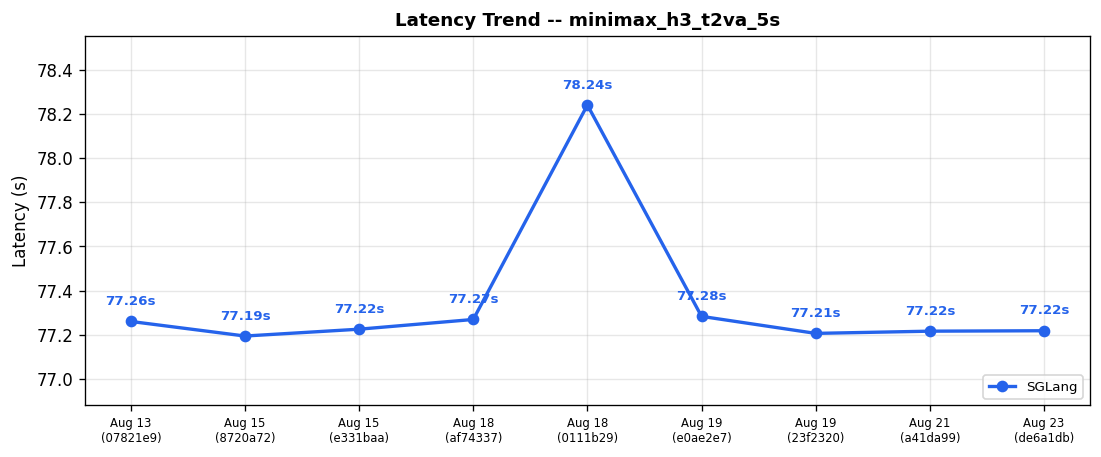
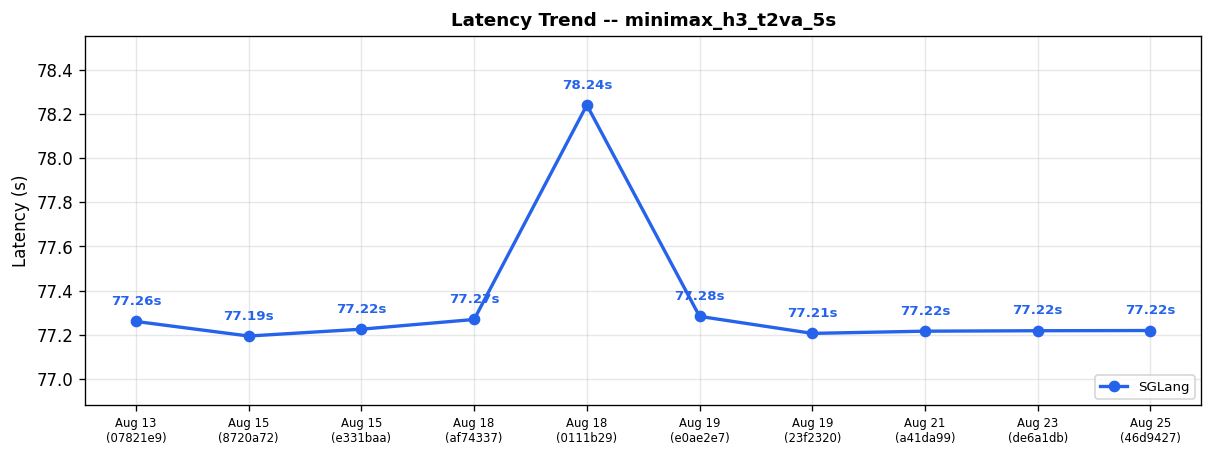
Diffusion comparison results for run 32858458603 (#760)

diff --git a/diffusion-comparisons/dashboard.md b/diffusion-comparisons/dashboard.md
@@ -1,22 +1,22 @@
 # SGLang-Diffusion Nightly Performance Dashboard
 
-*Generated: Aug 23 | Commit: `de6a1db`*
+*Generated: Aug 25 | Commit: `46d9427`*
 
 ## SGLang-Diffusion Performance
 
 | Model | Risk | sglang (s) |
 |-------|------|---------|
-| FLUX.1-dev | ✅ | **4.61** |
-| FLUX.2-dev | ✅ | **13.47** |
-| Qwen-Image-2512 | ✅ | **8.90** |
-| Qwen-Image-Edit-2511 | ✅ | **15.54** |
-| Z-Image-Turbo | ⚠ | **0.94** |
-| Wan2.2-T2V-A14B-Diffusers | ✅ | **206.72** |
-| Wan2.2-TI2V-5B-Diffusers | ✅ | **56.17** |
-| LTX-2.3 | ✅ | **13.06** |
-| ideogram-4-fp8 | ✅ | **4.17** |
-| Cosmos3-Super | ✅ | **119.35** |
-| Wan2.2-I2V-A14B-Diffusers | ✅ | **200.69** |
+| FLUX.1-dev | ✅ | **4.62** |
+| FLUX.2-dev | ✅ | **13.60** |
+| Qwen-Image-2512 | ✅ | **8.98** |
+| Qwen-Image-Edit-2511 | ✅ | **15.39** |
+| Z-Image-Turbo | ✅ | **0.94** |
+| Wan2.2-T2V-A14B-Diffusers | ✅ | **207.74** |
+| Wan2.2-TI2V-5B-Diffusers | ✅ | **56.19** |
+| LTX-2.3 | ✅ | **14.07** |
+| ideogram-4-fp8 | ✅ | **4.13** |
+| Cosmos3-Super | ✅ | **120.39** |
+| Wan2.2-I2V-A14B-Diffusers | ✅ | **201.67** |
 | MiniMax-H3 | ✅ | **77.22** |
 
 ### Latency Trend: flux1_dev_t2i_1024
@@ -83,8 +83,9 @@
 
 | Date | Commit | flux1_dev_t2i_1024 (s) | flux2_dev_t2i_1024 (s) | qwen_image_2512_t2i_1024 (s) | qwen_image_edit_2511 (s) | zimage_turbo_t2i_1024 (s) | wan22_t2v_a14b_720p (s) | wan22_ti2v_5b_720p (s) | ltx2.3_twostage_ti2v_2gpus (s) | ideogram4_fp8_t2i_2gpu (s) | cosmos3_super_t2v_2gpu (s) | wan22_i2v_a14b_720p (s) | minimax_h3_t2va_5s (s) | Trend |
 |------|--------|---------|---------|---------|---------|---------|---------|---------|---------|---------|---------|---------|---------|-------|
-| Aug 23 | `de6a1db` | 4.61 | 13.47 | 8.90 | 15.54 | 0.94 | 206.72 | 56.17 | 13.06 | 4.17 | 119.35 | 200.69 | 77.22 |            |
+| Aug 25 | `46d9427` | 4.62 | 13.60 | 8.98 | 15.39 | 0.94 | 207.74 | 56.19 | 14.07 | 4.13 | 120.39 | 201.67 | 77.22 |            |
 |  | `?` | N/A | N/A | N/A | N/A | N/A | N/A | N/A | N/A | N/A | N/A | N/A | N/A |            |
+| Aug 23 | `de6a1db` | 4.61 | 13.47 | 8.90 | 15.54 | 0.94 | 206.72 | 56.17 | 13.06 | 4.17 | 119.35 | 200.69 | 77.22 | :left_right_arrow:  :left_right_arrow:  :arrow_down:  :arrow_down:  :left_right_arrow:  :left_right_arrow:  :left_right_arrow:  :arrow_down:  :left_right_arrow:  :left_right_arrow:  :left_right_arrow:  :left_right_arrow: |
 | Aug 21 | `a41da99` | 4.70 | 13.55 | 10.33 | 15.86 | 0.95 | 207.72 | 56.22 | 17.07 | 4.19 | 119.38 | 201.54 | 77.22 | :arrow_up:  :left_right_arrow:  :arrow_up:  :left_right_arrow:  :arrow_up:  :left_right_arrow:  :left_right_arrow:  :arrow_up:  :arrow_up:  :left_right_arrow:  :left_right_arrow:  :left_right_arrow: |
 | Aug 19 | `23f2320` | 4.44 | 13.38 | 8.84 | 15.68 | 0.78 | 207.75 | 56.19 | 13.05 | 3.98 | 119.37 | 201.65 | 77.21 | :left_right_arrow:  :left_right_arrow:  :arrow_down:  :left_right_arrow:  :left_right_arrow:  :left_right_arrow:  :left_right_arrow:  :arrow_down:  :left_right_arrow:  :left_right_arrow:  :left_right_arrow:  :left_right_arrow: |
 | Aug 19 | `e0ae2e7` | 4.45 | 13.38 | 10.06 | 15.44 | 0.79 | 207.60 | 56.17 | 17.07 | 4.00 | 119.34 | 201.56 | 77.28 | :left_right_arrow:  :left_right_arrow:  :arrow_up:  :left_right_arrow:  :arrow_down:  :left_right_arrow:  :left_right_arrow:  :arrow_up:  :left_right_arrow:  :left_right_arrow:  :left_right_arrow:  :left_right_arrow: |
@@ -111,15 +112,7 @@
 | Jul 18 | `e48eabb` | 4.86 | 14.41 | 10.86 | 15.41 | 0.83 | 210.72 | 65.23 | 16.08 | N/A | 115.29 | 203.68 | N/A | :left_right_arrow:  :left_right_arrow:  :arrow_up:  :left_right_arrow:  :left_right_arrow:  :left_right_arrow:  :left_right_arrow:  :arrow_up:   :left_right_arrow:  :left_right_arrow:  |
 | Jul 17 | `dc0b3eb` | 4.85 | 14.48 | 9.02 | 15.41 | 0.83 | 210.69 | 65.20 | 13.05 | 5.31 | 115.32 | 204.58 | N/A | :left_right_arrow:  :left_right_arrow:  :arrow_down:  :left_right_arrow:  :left_right_arrow:  :left_right_arrow:  :left_right_arrow:  :arrow_down:  :left_right_arrow:  :left_right_arrow:  :left_right_arrow:  |
 | Jul 16 | `b0b2dfb` | 4.87 | 14.41 | 10.80 | 15.41 | 0.83 | 210.62 | 65.24 | 16.06 | 5.35 | 115.35 | 204.68 | N/A | :left_right_arrow:  :left_right_arrow:  :arrow_up:  :left_right_arrow:  :left_right_arrow:  :left_right_arrow:  :left_right_arrow:  :arrow_up:  :left_right_arrow:  :left_right_arrow:  :left_right_arrow:  |
-| Jul 15 | `50d1eda` | 4.83 | 14.32 | 8.82 | 15.32 | 0.82 | 209.74 | 64.24 | 13.06 | 5.44 | 114.33 | 203.70 | N/A | :left_right_arrow:  :left_right_arrow:  :arrow_down:  :left_right_arrow:  :arrow_down:  :left_right_arrow:  :left_right_arrow:  :arrow_down:  :left_right_arrow:  :left_right_arrow:  :left_right_arrow:  |
-| Jul 14 | `cfe4eef` | 4.87 | 14.47 | 10.73 | 15.40 | 0.84 | 210.71 | 65.23 | 17.08 | 5.36 | 115.38 | 204.63 | N/A | -- |
-
-> [!CAUTION]
-> **Action Required — Performance Alert**
->
-> The following cases need attention:
-> - zimage_turbo_t2i_1024: SGLang regression +8.7% vs 3-run avg (0.94s vs 0.87s)
-
+| Jul 15 | `50d1eda` | 4.83 | 14.32 | 8.82 | 15.32 | 0.82 | 209.74 | 64.24 | 13.06 | 5.44 | 114.33 | 203.70 | N/A | -- |
 
 ---
 *Generated by `generate_diffusion_dashboard.py` in SGLang nightly CI.*
